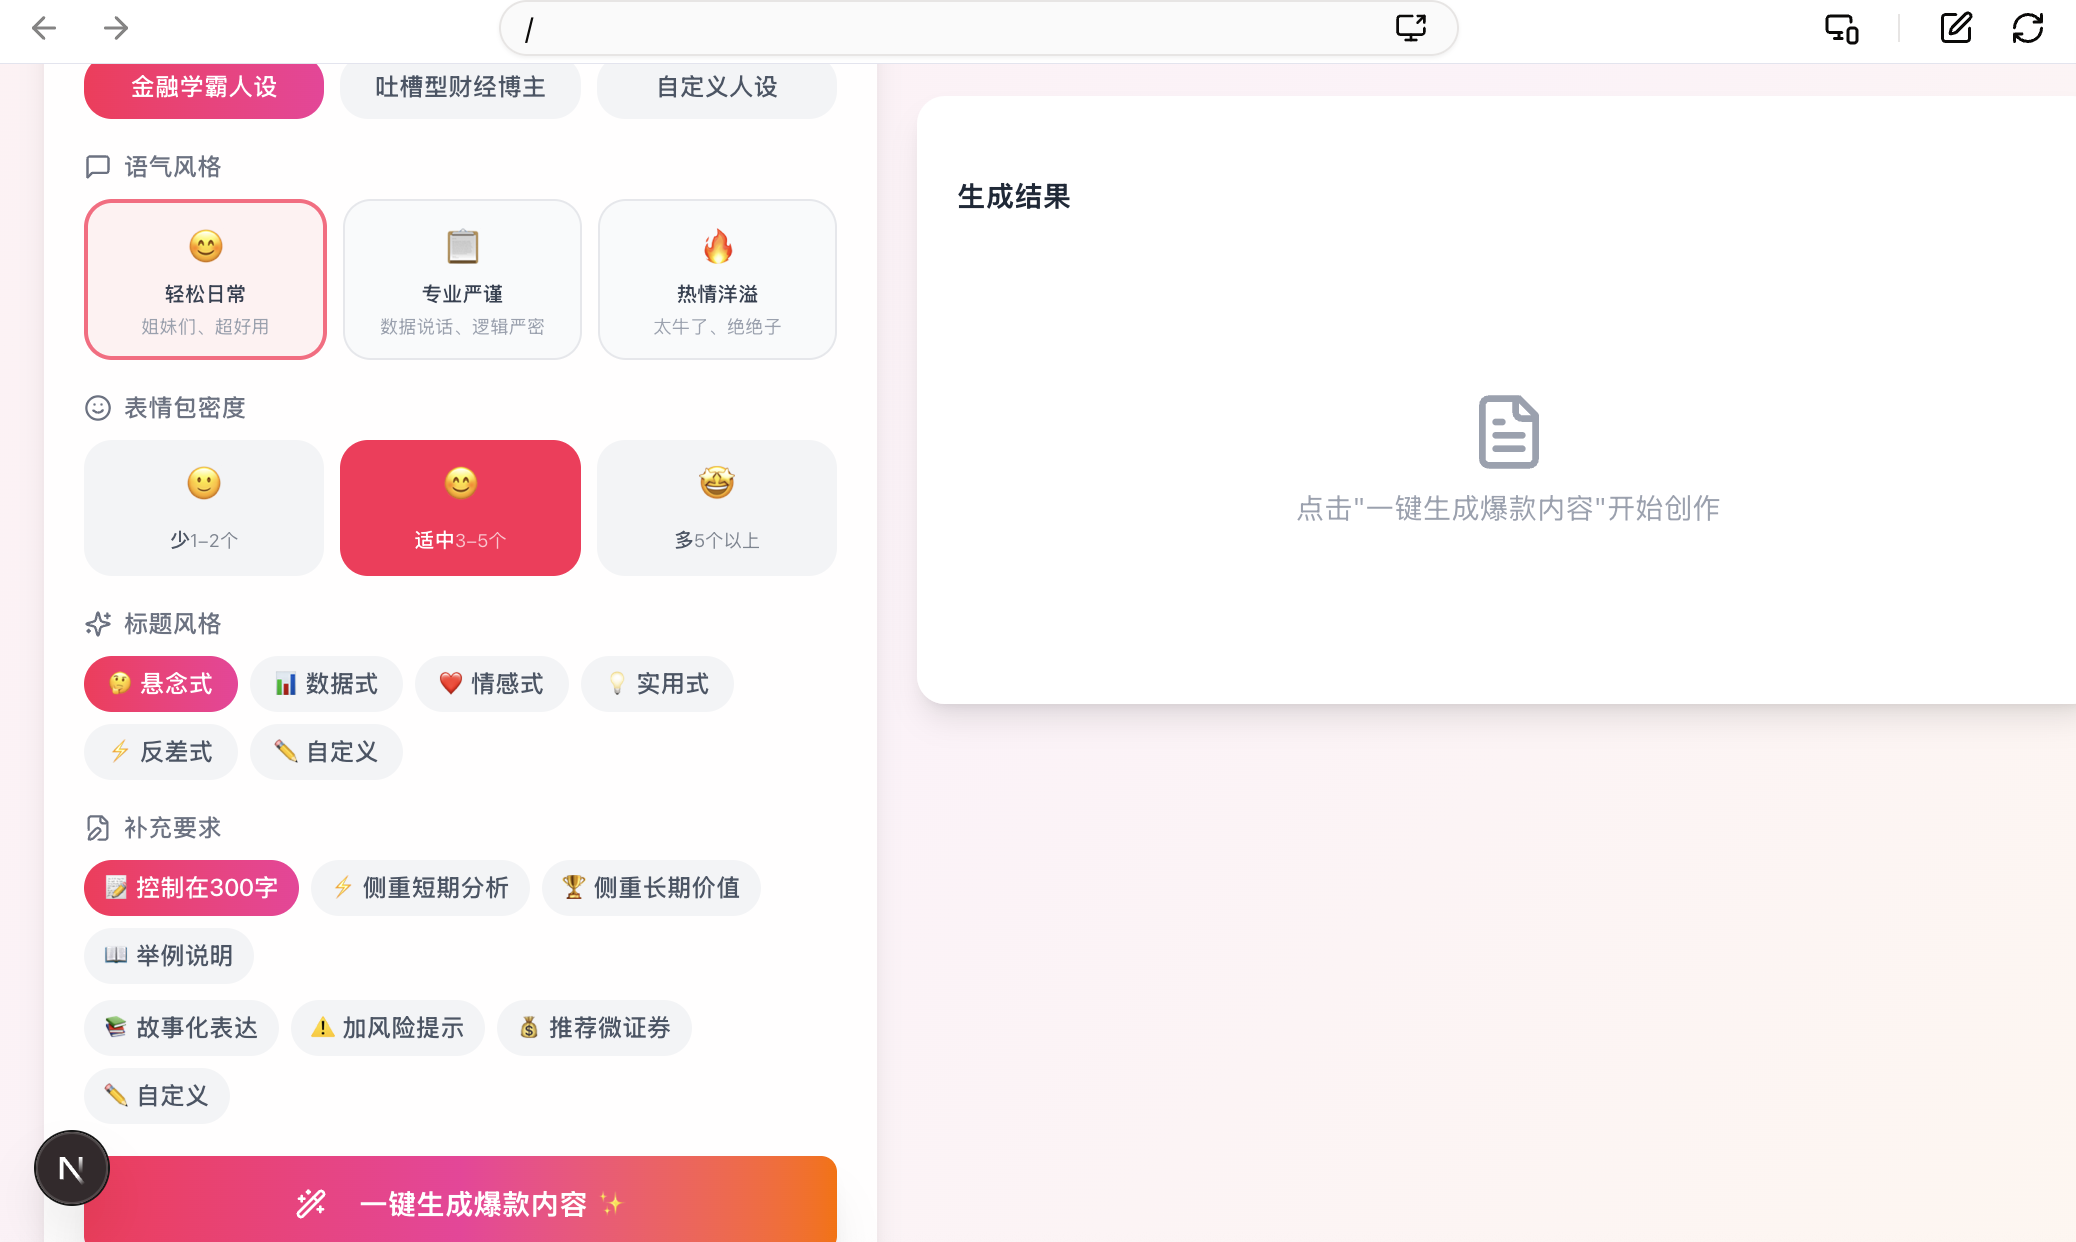
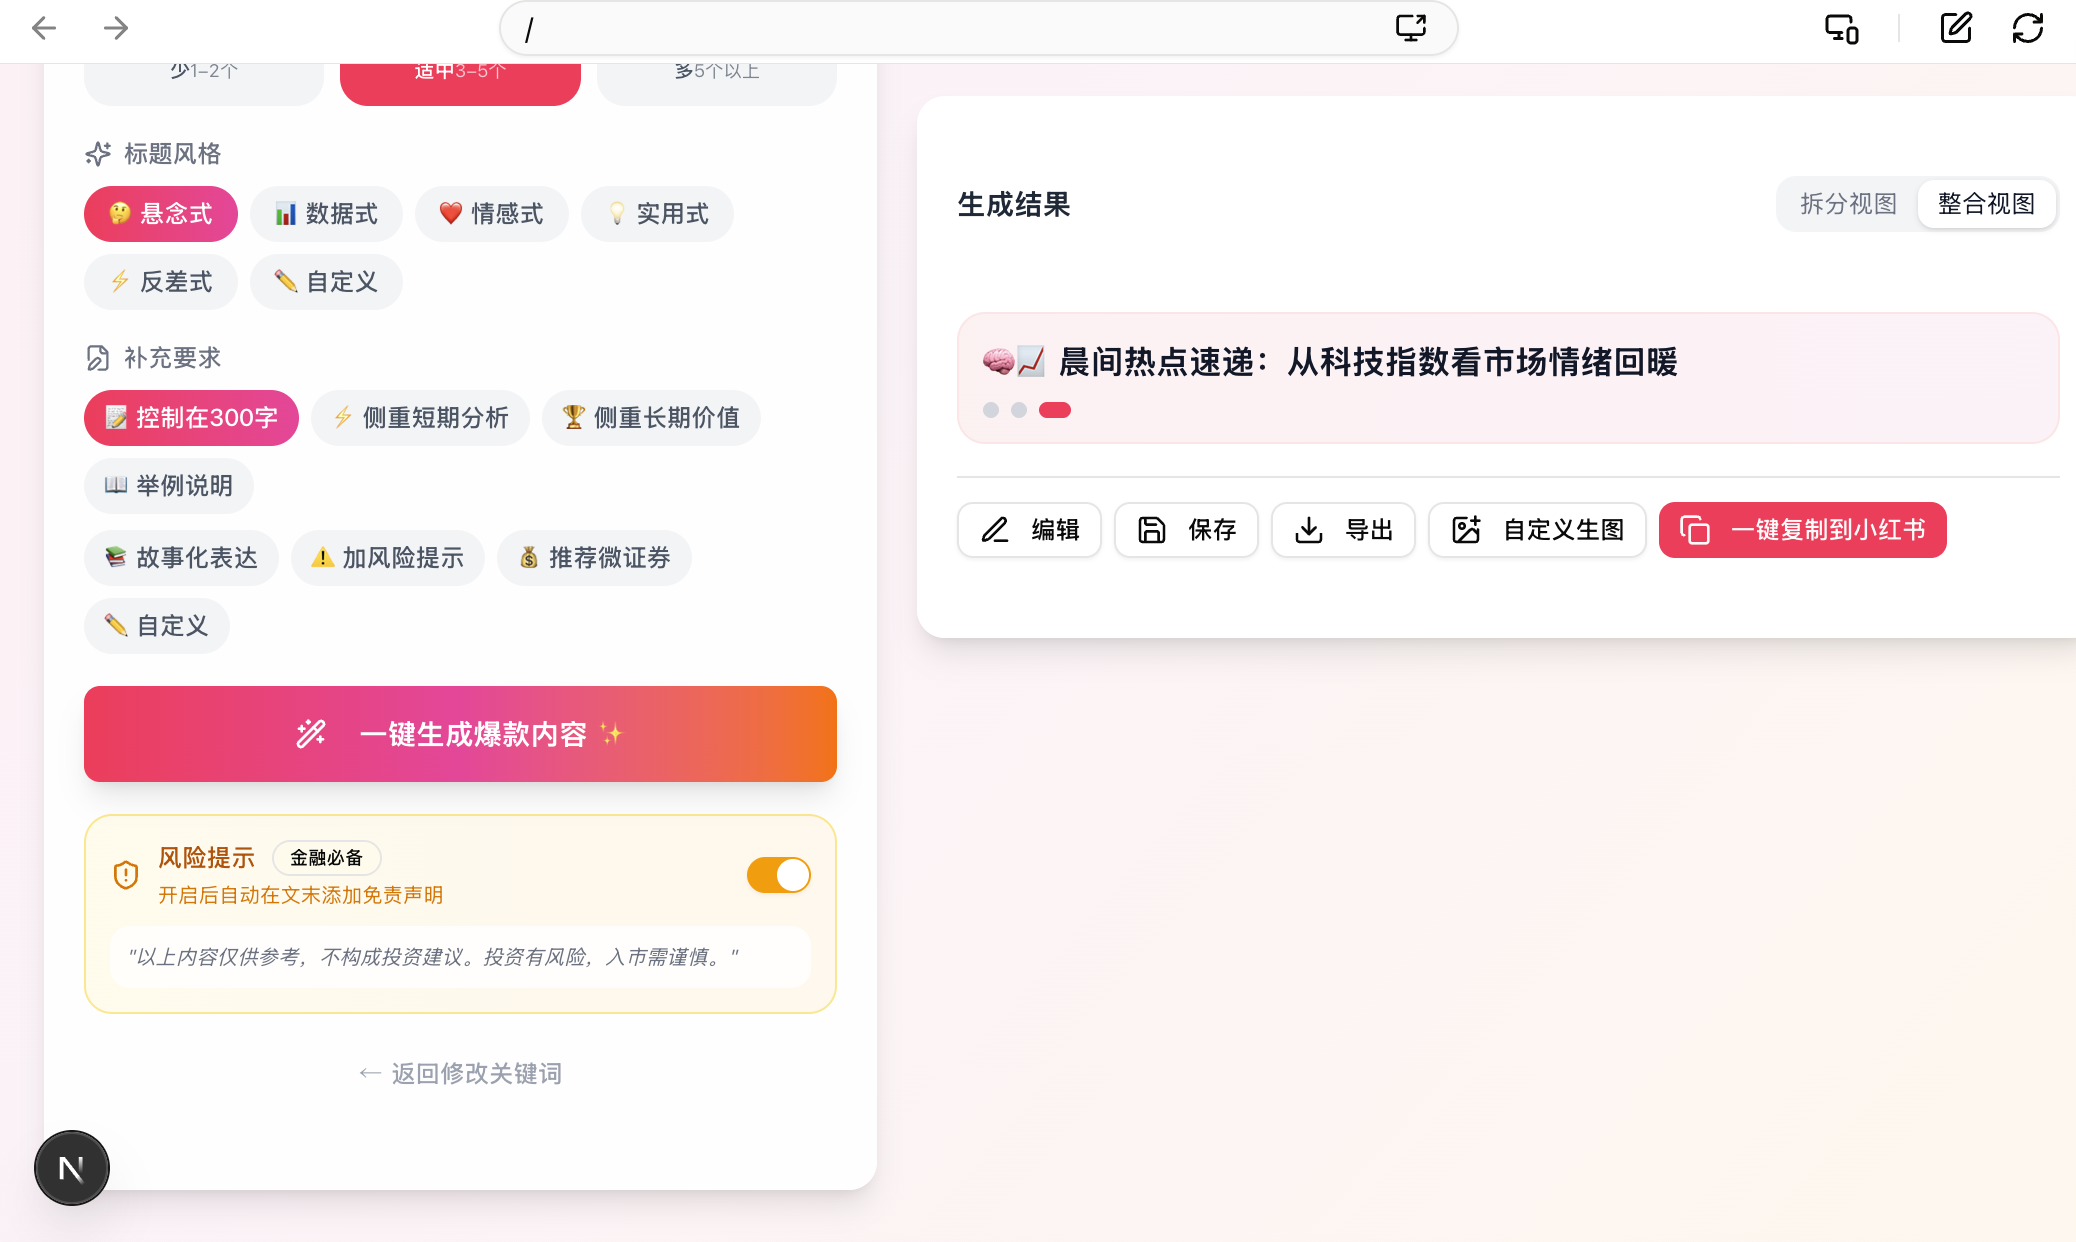
feat: 实现边生成边显示内容

diff --git a/src/app/page.tsx b/src/app/page.tsx
@@ -226,15 +226,13 @@ export default function Home() {
   };
 
   // ==================== 生成内容 ====================
-  // 生成标题候选（分步预览第一步）
-  const handleGenerateTitles = useCallback(async () => {
+  // 一次性生成标题和内容（边生成边显示）
+  const handleGenerate = useCallback(async () => {
     setIsGenerating(true);
-    setGeneratedTitles([]);
-    setSelectedTitleIndex(null);
     setShowTitlePreview(true);
-    setCurrentStep('生成标题中...');
-    setViewMode('split');
-    setContent(''); // 清空之前的内容
+    setViewMode('integrated');
+    setCurrentStep('正在构思...');
+    setContent(''); // 清空内容
     setTitles([]);
     setTags([]);
     setImageUrls([]);
@@ -248,19 +246,15 @@ export default function Home() {
           topicType, userTag, contentType, keywords,
           analysisTarget, analysisTargetInput, contentDepth, focusDirections,
           contentSubType, platformCompare, includeExample, includeResearch,
-          videoDuration, videoStyle: videoStyle, enableImageSuggestion: false,
+          videoDuration, videoStyle: videoStyle, enableImageSuggestion,
           titleStyles, customTitleStyle, personaType, customPersona,
           additionalRequirements: enableRiskWarning ? ['risk_warning'] : [],
           customRequirement,
           hotTopicInfo: selectedHotTopic ? `${selectedHotTopic.title}\n${selectedHotTopic.snippet}` : undefined,
           hotTop3Tags: hotTop3Tags,
-          // 新增参数
-          analysisLogic,
-          toneStyle,
-          emojiDensity,
-          enableRiskWarning,
-          // 只生成标题，不生成内容
-          generateOnlyTitles: true,
+          analysisLogic, toneStyle, emojiDensity, enableRiskWarning,
+          // 一次性生成所有内容
+          generateOnlyTitles: false,
         }),
       });
 
@@ -287,26 +281,24 @@ export default function Home() {
                     setCurrentStep(data.data);
                     break;
                   case 'titles':
+                    // 标题生成后立即显示
                     setGeneratedTitles(data.data.map((t: any) => t.title || t));
-                    // 同时更新titles数组
                     setTitles(data.data.map((t: any) => typeof t === 'string' ? { title: t, style: 'suspense' } : t));
-                    // 默认选中第一个
                     if (data.data.length > 0) {
                       setSelectedTitleIndex(0);
                     }
+                    // 生成标题后切换到整合视图，显示"正在生成内容..."
+                    setViewMode('integrated');
+                    setCurrentStep('正在生成内容...');
                     break;
                   case 'titles_end':
-                    // 标题生成完成，等待用户选择
-                    setCurrentStep('');
-                    setIsGenerating(false);
-                    setShowTitlePreview(true);
-                    toast.success('标题已生成，请选择标题');
+                    // 标题选择完成，不结束生成，继续等内容
                     break;
                   case 'content':
+                    // 边生成边显示内容
                     setContent(prev => prev + data.data);
                     break;
                   case 'content_end':
-                    // 内容结束标记
                     break;
                   case 'tags':
                     setTags(data.data);
@@ -328,7 +320,6 @@ export default function Home() {
                   case 'engagement_score':
                     setEngagementScore(data.data);
                     setCurrentStep('');
-                    setShowTitlePreview(false);
                     toast.success('生成完成！');
                     break;
                 }
@@ -469,12 +460,6 @@ export default function Home() {
       setIsGenerating(false);
     }
   }, [selectedTitleIndex, generatedTitles, topicType, userTag, contentType, keywords, selectedHotTopic, hotTop3Tags, analysisLogic, toneStyle, emojiDensity, enableRiskWarning, personaType, lockedModules, userEdited]);
-
-  // 保留原来的handleGenerate用于直接生成
-  const handleGenerate = useCallback(async () => {
-    // 直接调用handleGenerateTitles，它会一次性生成标题和内容
-    await handleGenerateTitles();
-  }, [handleGenerateTitles]);
 
   // ==================== 自定义生图 ====================
   const handleCustomImageGenerate = async () => {
@@ -1485,24 +1470,6 @@ export default function Home() {
                 </div>
               </CardHeader>
               <CardContent className="px-4 sm:px-5 pb-4">
-                {/* 加载状态 */}
-                {isGenerating && (
-                  <div className="flex flex-col items-center justify-center py-16">
-                    <div className="relative mb-4">
-                      <div className="w-16 h-16 rounded-full border-4 border-rose-100"></div>
-                      <div className="absolute inset-0 w-16 h-16 rounded-full border-4 border-transparent border-t-rose-500 animate-spin"></div>
-                    </div>
-                    <p className="text-sm font-medium text-gray-700 mb-1">{currentStep || '正在生成...'}</p>
-                    <p className="text-xs text-gray-400">AI正在为你创作内容，请稍候</p>
-                    {/* 进度指示器 */}
-                    <div className="flex gap-1 mt-4">
-                      <div className="w-2 h-2 rounded-full bg-rose-500 animate-bounce" style={{animationDelay: '0ms'}}></div>
-                      <div className="w-2 h-2 rounded-full bg-rose-400 animate-bounce" style={{animationDelay: '150ms'}}></div>
-                      <div className="w-2 h-2 rounded-full bg-rose-300 animate-bounce" style={{animationDelay: '300ms'}}></div>
-                    </div>
-                  </div>
-                )}
-
                 {/* 初始空状态（无加载、无内容） */}
                 {!isGenerating && titles.length === 0 && generatedTitles.length === 0 && !content ? (
                   <div className="flex flex-col items-center justify-center py-12 text-gray-400">
@@ -1528,28 +1495,43 @@ export default function Home() {
                       </div>
                     )}
                     
-                    {/* 整合视图 */}
+                    {/* 整合视图 - 边生成边显示 */}
                     {viewMode === 'integrated' && (
                       <div className="space-y-3">
-                        {/* 标题 - 优先使用titles，否则使用generatedTitles */}
+                        {/* 标题 - 边生成边显示 */}
                         {(titles.length > 0 || generatedTitles.length > 0) && (
                           <div className="p-3 bg-gradient-to-r from-rose-50 to-pink-50 rounded-xl border border-rose-100">
+                            <div className="flex items-center gap-2 mb-2">
+                              <Sparkles className="h-4 w-4 text-rose-500" />
+                              <span className="text-xs text-rose-600 font-medium">生成中</span>
+                            </div>
                             <div className="text-base font-semibold text-gray-900">
                               {titles.length > 0 ? titles[selectedTitleIndex]?.title : generatedTitles[selectedTitleIndex || 0]}
                             </div>
-                            {(titles.length > 1 || generatedTitles.length > 1) && (
-                              <div className="flex gap-1.5 mt-2">
-                                {(titles.length > 0 ? titles : generatedTitles).map((t, i) => (
-                                  <button
-                                    key={i}
-                                    onClick={() => setSelectedTitleIndex(i)}
-                                    className={`w-2 h-2 rounded-full transition-all ${
-                                      selectedTitleIndex === i ? 'bg-rose-500 w-4' : 'bg-gray-300'
-                                    }`}
-                                  />
-                                ))}
-                              </div>
-                            )}
+                          </div>
+                        )}
+
+                        {/* 内容 - 边生成边显示 */}
+                        {content && (
+                          <div className="p-3 bg-gray-50 rounded-xl">
+                            <div className="flex items-center gap-2 mb-2">
+                              <div className={`w-2 h-2 rounded-full ${isGenerating ? 'bg-green-500 animate-pulse' : 'bg-green-600'}`}></div>
+                              <span className="text-xs text-gray-500">{isGenerating ? '生成中...' : '生成完成'}</span>
+                            </div>
+                            <div className="text-sm text-gray-700 whitespace-pre-wrap leading-relaxed">
+                              {content}
+                              {isGenerating && <span className="inline-block w-2 h-4 bg-rose-400 ml-1 animate-pulse"></span>}
+                            </div>
+                          </div>
+                        )}
+
+                        {/* 加载指示（还没开始生成内容时） */}
+                        {!content && titles.length > 0 && isGenerating && (
+                          <div className="p-4 bg-gray-50 rounded-xl">
+                            <div className="flex items-center justify-center gap-2 mb-2">
+                              <div className="w-4 h-4 border-2 border-rose-500 border-t-transparent rounded-full animate-spin"></div>
+                              <span className="text-sm text-gray-500">{currentStep || '正在构思内容...'}</span>
+                            </div>
                           </div>
                         )}
 
